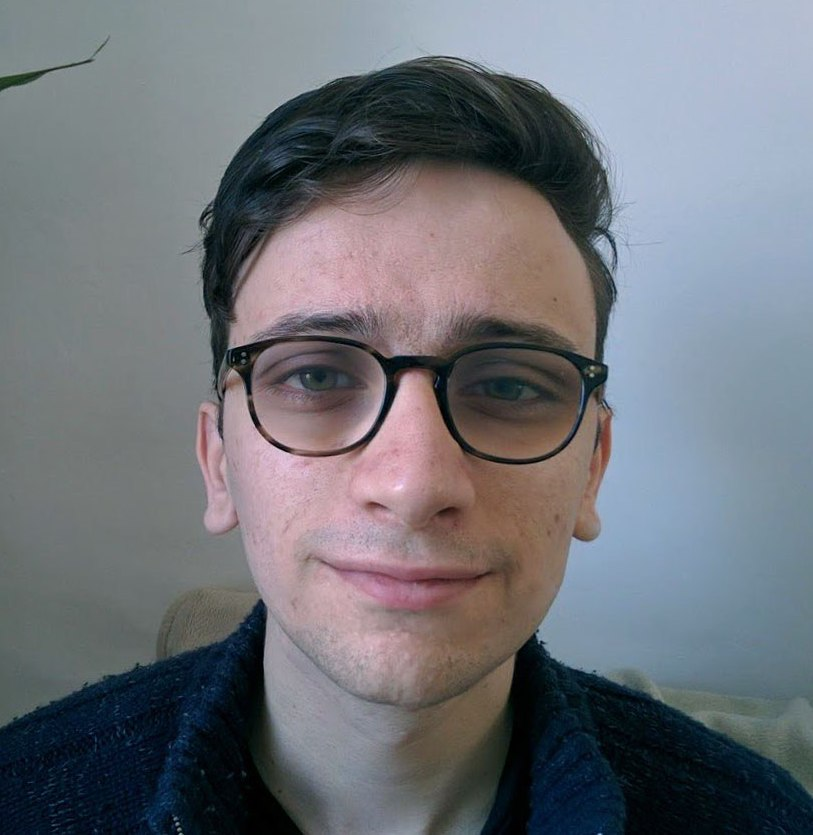
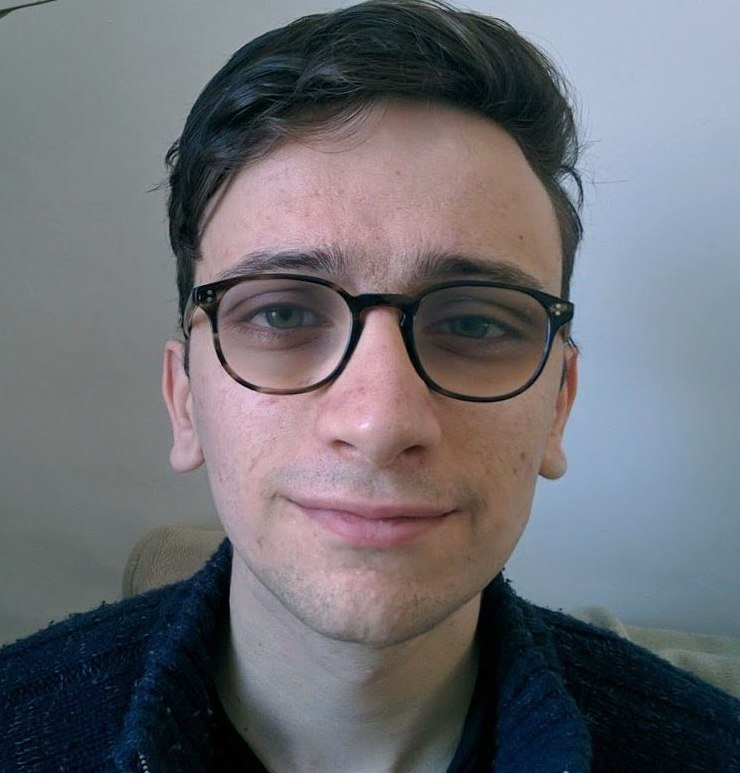
re alignment of leo

diff --git a/scss/index.scss b/scss/index.scss
@@ -169,6 +169,7 @@ li:before {
 
     .head-shot {
         width: 200px;
+        height: 210px;
         margin: 10px 0;
         border-radius: 100%;
     }

diff --git a/index.css b/index.css
@@ -144,6 +144,7 @@ li:before {
 }
 .person .head-shot {
   width: 200px;
+  height: 210px;
   margin: 10px 0;
   border-radius: 100%;
 }
